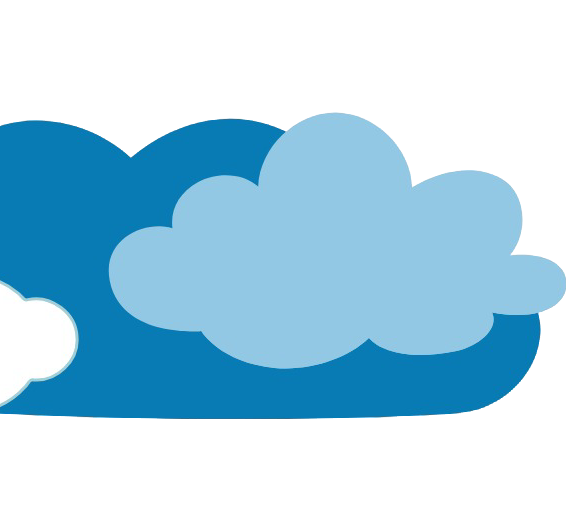
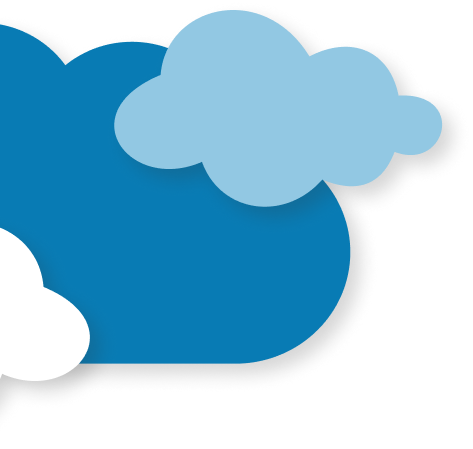
Worked on Initial feedback: adjusted the cloud image on spellingbee pange

diff --git a/src/pages/GameZone/GameZoneList/SpellingBee.vue b/src/pages/GameZone/GameZoneList/SpellingBee.vue
@@ -24,11 +24,11 @@
          </div>
          
          <!-- Clouds - Positioned to avoid overlapping buttons -->
-         <div class="absolute left-0 bottom-0">
+         <div class="absolute bottom-0 left-0 z-0" style="bottom: 50px;">
            <img
              src="/assets/gameImages/cloud-bg.png"
              alt="Decorative cloud"
-             class="w-2/3 opacity-80"
+             style="width: 400px; height: auto;"
            />
          </div>
        </div>
@@ -92,12 +92,12 @@
                </button>
              </div>
              
-             <div
+             <!-- div
                id="transcript"
                class="text-center text-xl font-bold pt-2 pb-1"
              >
                You said: {{ transcription }}
-             </div>
+             </div-->
            </div>
            
            <div v-else>
